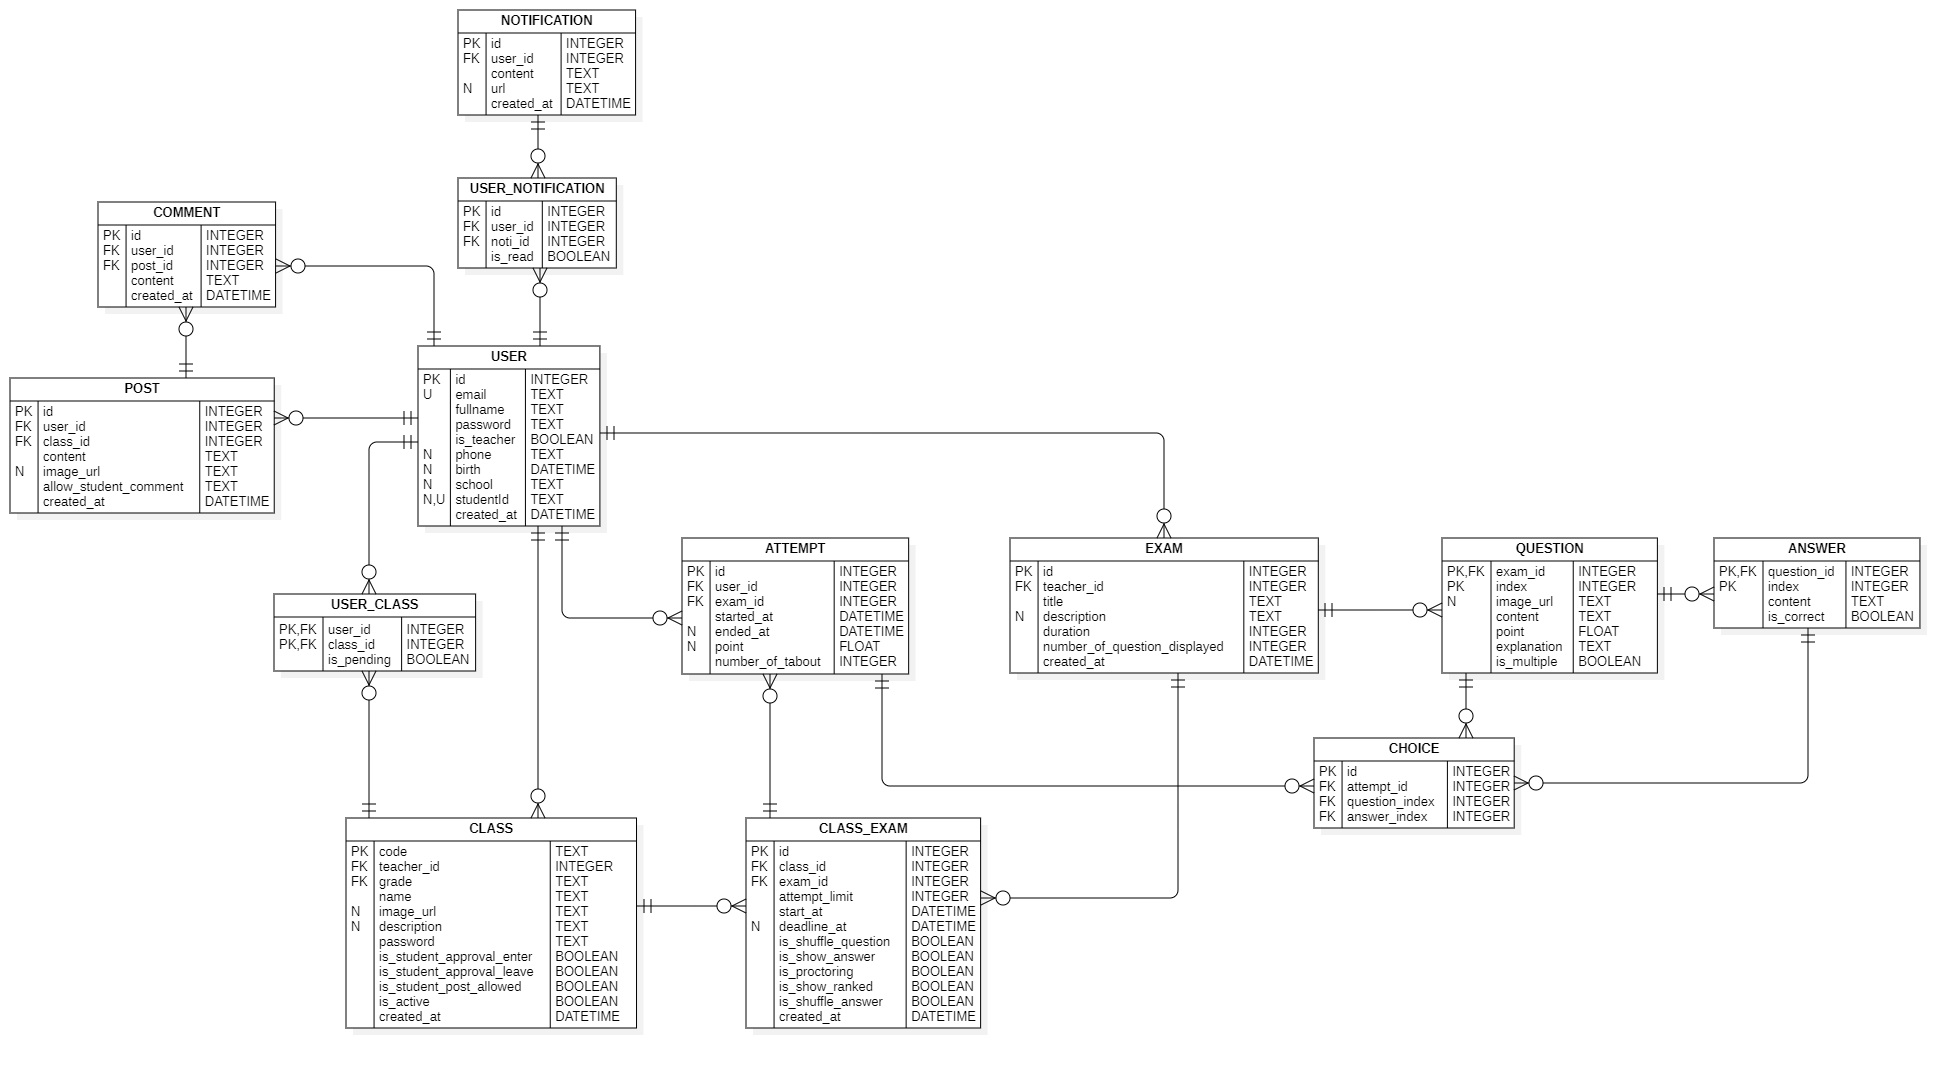
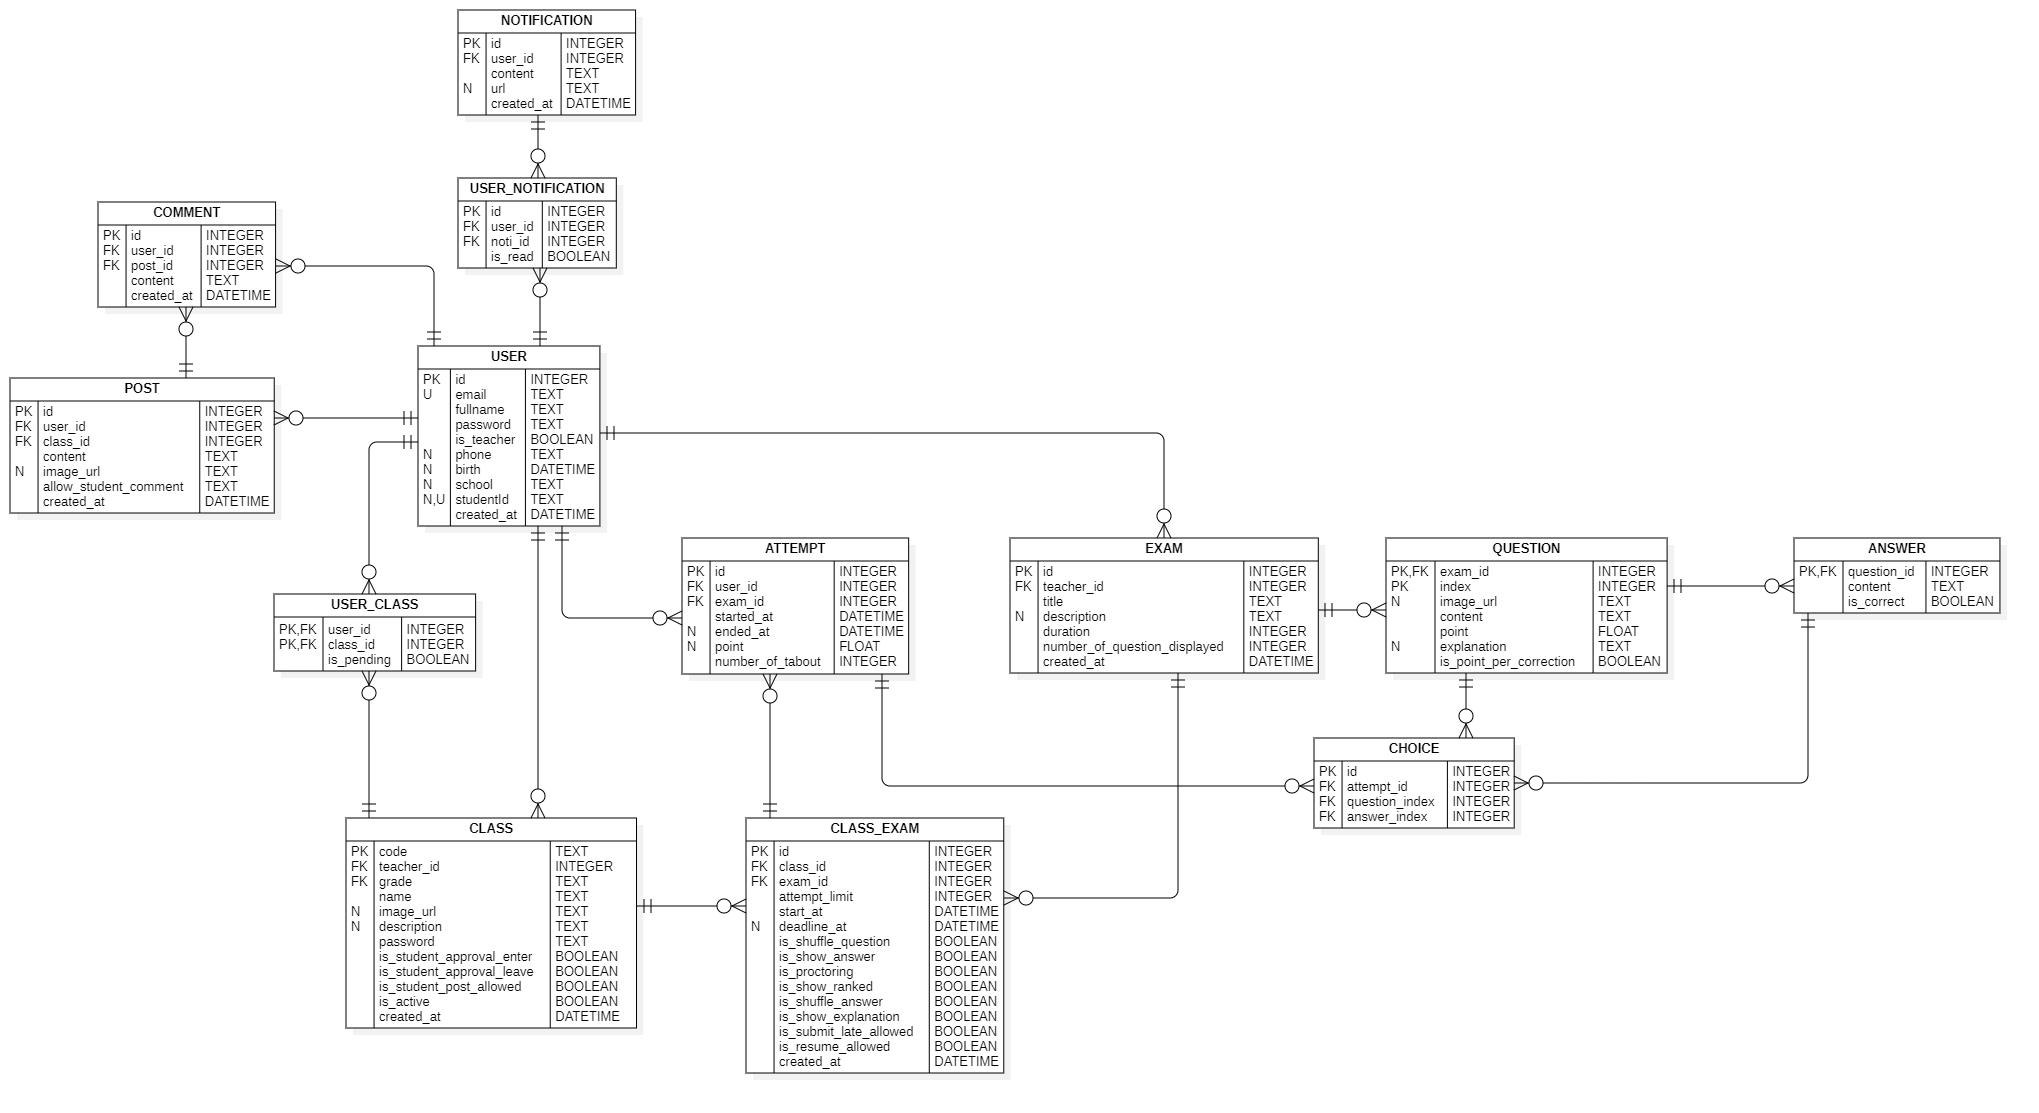
refactor: rename question field

diff --git a/api/src/services/exam.service.js b/api/src/services/exam.service.js
@@ -1,6 +1,4 @@
 const { prisma } = require("../database/prisma-client");
-const ApiError = require("../utils/ApiError");
-const httpStatus = require("http-status");
 
 function createOne(data) {
   return prisma.exam.create({
@@ -22,8 +20,8 @@ function createOne(data) {
   });
 }
 
-function getOneById(id, { teacherId }) {
-  return prisma.exam.findUnique({
+async function getOneById(id, { teacherId }) {
+  const exam = await prisma.exam.findUnique({
     where: { id, teacherId },
     include: {
       Question: {
@@ -32,6 +30,12 @@ function getOneById(id, { teacherId }) {
       },
     },
   });
+
+  return {
+    ...exam,
+    numberOfQuestions: exam.Question.length,
+    totalPoint: exam.Question.reduce((acc, value) => acc + value.point, 0),
+  };
 }
 
 function getManyByTeacherId(teacherId) {
@@ -41,13 +45,6 @@ function getManyByTeacherId(teacherId) {
 }
 
 async function updateOneById(id, data) {
-  const exam = await prisma.exam.findFirst({
-    where: { id, teacher_id: data.usteacherIdrId },
-  });
-
-  if (!exam)
-    throw new ApiError(httpStatus.NOT_FOUND, "Không tìm thấy bài kiểm tra");
-
   return prisma.exam.update({
     where: { id },
     data: {
@@ -58,14 +55,7 @@ async function updateOneById(id, data) {
   });
 }
 
-async function deleteOneById(id, teacherId) {
-  const test = await prisma.exam.findFirst({
-    where: { id, teacherId: teacherId },
-  });
-
-  if (!test)
-    throw new ApiError(httpStatus.NOT_FOUND, "Không tìm thấy bài kiểm tra");
-
+async function deleteOneById(id) {
   return prisma.test.delete({ where: { id } });
 }
 

diff --git a/api/src/controllers/exam.controller.js b/api/src/controllers/exam.controller.js
@@ -26,20 +26,17 @@ const getManyByTeacherId = catchAsync(async (req, res) => {
 });
 
 const updateOneById = catchAsync(async (req, res) => {
-  const { testCode } = req.params;
-  const { id } = req.user;
-  const data = { ...req.user, userId: id };
-  const test = await examService.updateOneById(testCode, data);
+  const { id } = req.params;
+  const exam = await examService.updateOneById(+id, req.body);
 
   res
     .status(httpStatus.OK)
-    .json({ message: "Cập nhật bài kiểm tra thành công", data: { test } });
+    .json({ message: "Cập nhật bài kiểm tra thành công", data: exam });
 });
 
 const deleteOneById = catchAsync(async (req, res) => {
-  const { testCode } = req.params;
-  const { id } = req.user;
-  await examService.deleteOneById(testCode, id);
+  const { id } = req.params;
+  await examService.deleteOneById(id);
 
   res.status(httpStatus.OK).json({ message: "Xóa bài kiểm tra thành công" });
 });

diff --git a/client/src/features/exam/components/Form/QuestionForm/QuestionForm.tsx b/client/src/features/exam/components/Form/QuestionForm/QuestionForm.tsx
@@ -107,14 +107,14 @@ export function QuestionForm({ questionId, form, examId }: QuestionFormProps) {
         question && {
           content: question.content,
           answers: question.Answer,
-          score: question.score,
+          point: question.point,
           explanation: question.explanation,
         }
       }
     >
       <Row gutter={24}>
         <Col span={12}>
-          <Form.Item label="Số điểm" name="score" rules={[yupSync]} required>
+          <Form.Item label="Số điểm" name="point" rules={[yupSync]} required>
             <InputNumber controls={false} min={1} addonAfter="điểm" />
           </Form.Item>
         </Col>

diff --git a/client/src/features/exam/components/Drawer/ExamDetail.tsx b/client/src/features/exam/components/Drawer/ExamDetail.tsx
@@ -26,6 +26,14 @@ export function ExamDetail() {
       value: examDetails?.duration,
     },
     {
+      label: 'Tổng số câu hỏi',
+      value: examDetails?.numberOfQuestions,
+    },
+    {
+      label: 'Tổng điểm',
+      value: examDetails?.totalPoint,
+    },
+    {
       label: 'Ngày tạo',
       value: formatTime(examDetails?.createdAt as Date),
     },
@@ -42,11 +50,6 @@ export function ExamDetail() {
           {detail.value}
         </Descriptions.Item>
       ))}
-      {/* Tong so cau hoi
-      --
-      Tong so diem
-      --
-      -> link chinh sua noi dung de thi  */}
     </Descriptions>
   );
 }

diff --git a/api/src/services/question.service.js b/api/src/services/question.service.js
@@ -6,7 +6,7 @@ async function createOne(data) {
       index: data.index,
       content: data.content,
       imageUrl: data.imageUrl,
-      score: data.score,
+      point: data.point,
       explaination: data.explaination,
       isPointPerCorrection: data.isPointPerCorrection,
       Exam: {
@@ -35,8 +35,8 @@ function updateOneById(id, data) {
       index: data.index,
       content: data.content,
       imageUrl: data.imageUrl,
-      score: data.score,
-      explaination: data.explaination,
+      point: data.point,
+      explanation: data.explanation,
     },
     where: { id },
   });

diff --git a/client/src/features/exam/types/question.ts b/client/src/features/exam/types/question.ts
@@ -6,7 +6,7 @@ export interface Question extends Resource {
   index: number;
   imageUrl?: string;
   content: string;
-  score: number;
+  point: number;
   explanation?: string;
   isPointPerCorrection: boolean;
   Answer: Answer[];
@@ -17,7 +17,7 @@ export interface QuestionCreateDTO extends Resource {
   index?: number;
   imageUrl?: string;
   content: string;
-  score: number;
+  point: number;
   explanation?: string;
   isPointPerCorrection: boolean;
   answers: AnswerCreateDTO[];

diff --git a/client/src/features/exam/components/Form/QuestionForm/schema.tsx b/client/src/features/exam/components/Form/QuestionForm/schema.tsx
@@ -7,7 +7,7 @@ export const errorMessages = {
 export const questionSchema = yup.object().shape({
   imageUrl: yup.string().required(errorMessages.required),
   content: yup.string().required(errorMessages.required),
-  score: yup.number().required(errorMessages.required),
+  point: yup.number().required(errorMessages.required),
   explanation: yup.string().notRequired(),
   isPointPerCorrection: yup.boolean(),
 });

diff --git a/client/src/features/exam/components/Card/QuestionCard.tsx b/client/src/features/exam/components/Card/QuestionCard.tsx
@@ -46,7 +46,7 @@ export function QuestionCard({ question, index }: QuestionCardProps) {
       <CustomCard
         title={
           <Typography.Text {...attributes} {...listeners} strong style={{ cursor: 'pointer' }}>
-            Câu {index} _ {question.score} điểm
+            Câu {index} _ {question.point} điểm
           </Typography.Text>
         }
         extra={

diff --git a/client/src/features/exam/components/Steper/ExamContent.tsx b/client/src/features/exam/components/Steper/ExamContent.tsx
@@ -71,7 +71,7 @@ export function ExamContent({ exam }: ExamContentProps) {
             readOnly
             addonBefore="Tổng số điểm"
             addonAfter="điểm"
-            value={items.reduce((acc, item) => acc + item.score, 0)}
+            value={items.reduce((acc, item) => acc + item.point, 0)}
           />
         </Space>
         <Space>

diff --git a/client/src/features/exam/types/exam.ts b/client/src/features/exam/types/exam.ts
@@ -7,6 +7,8 @@ export interface Exam extends Resource {
   title: string;
   description?: string;
   duration: number;
+  numberOfQuestions: number;
+  totalPoint: number;
   User?: User;
   Question?: Question[];
 }
